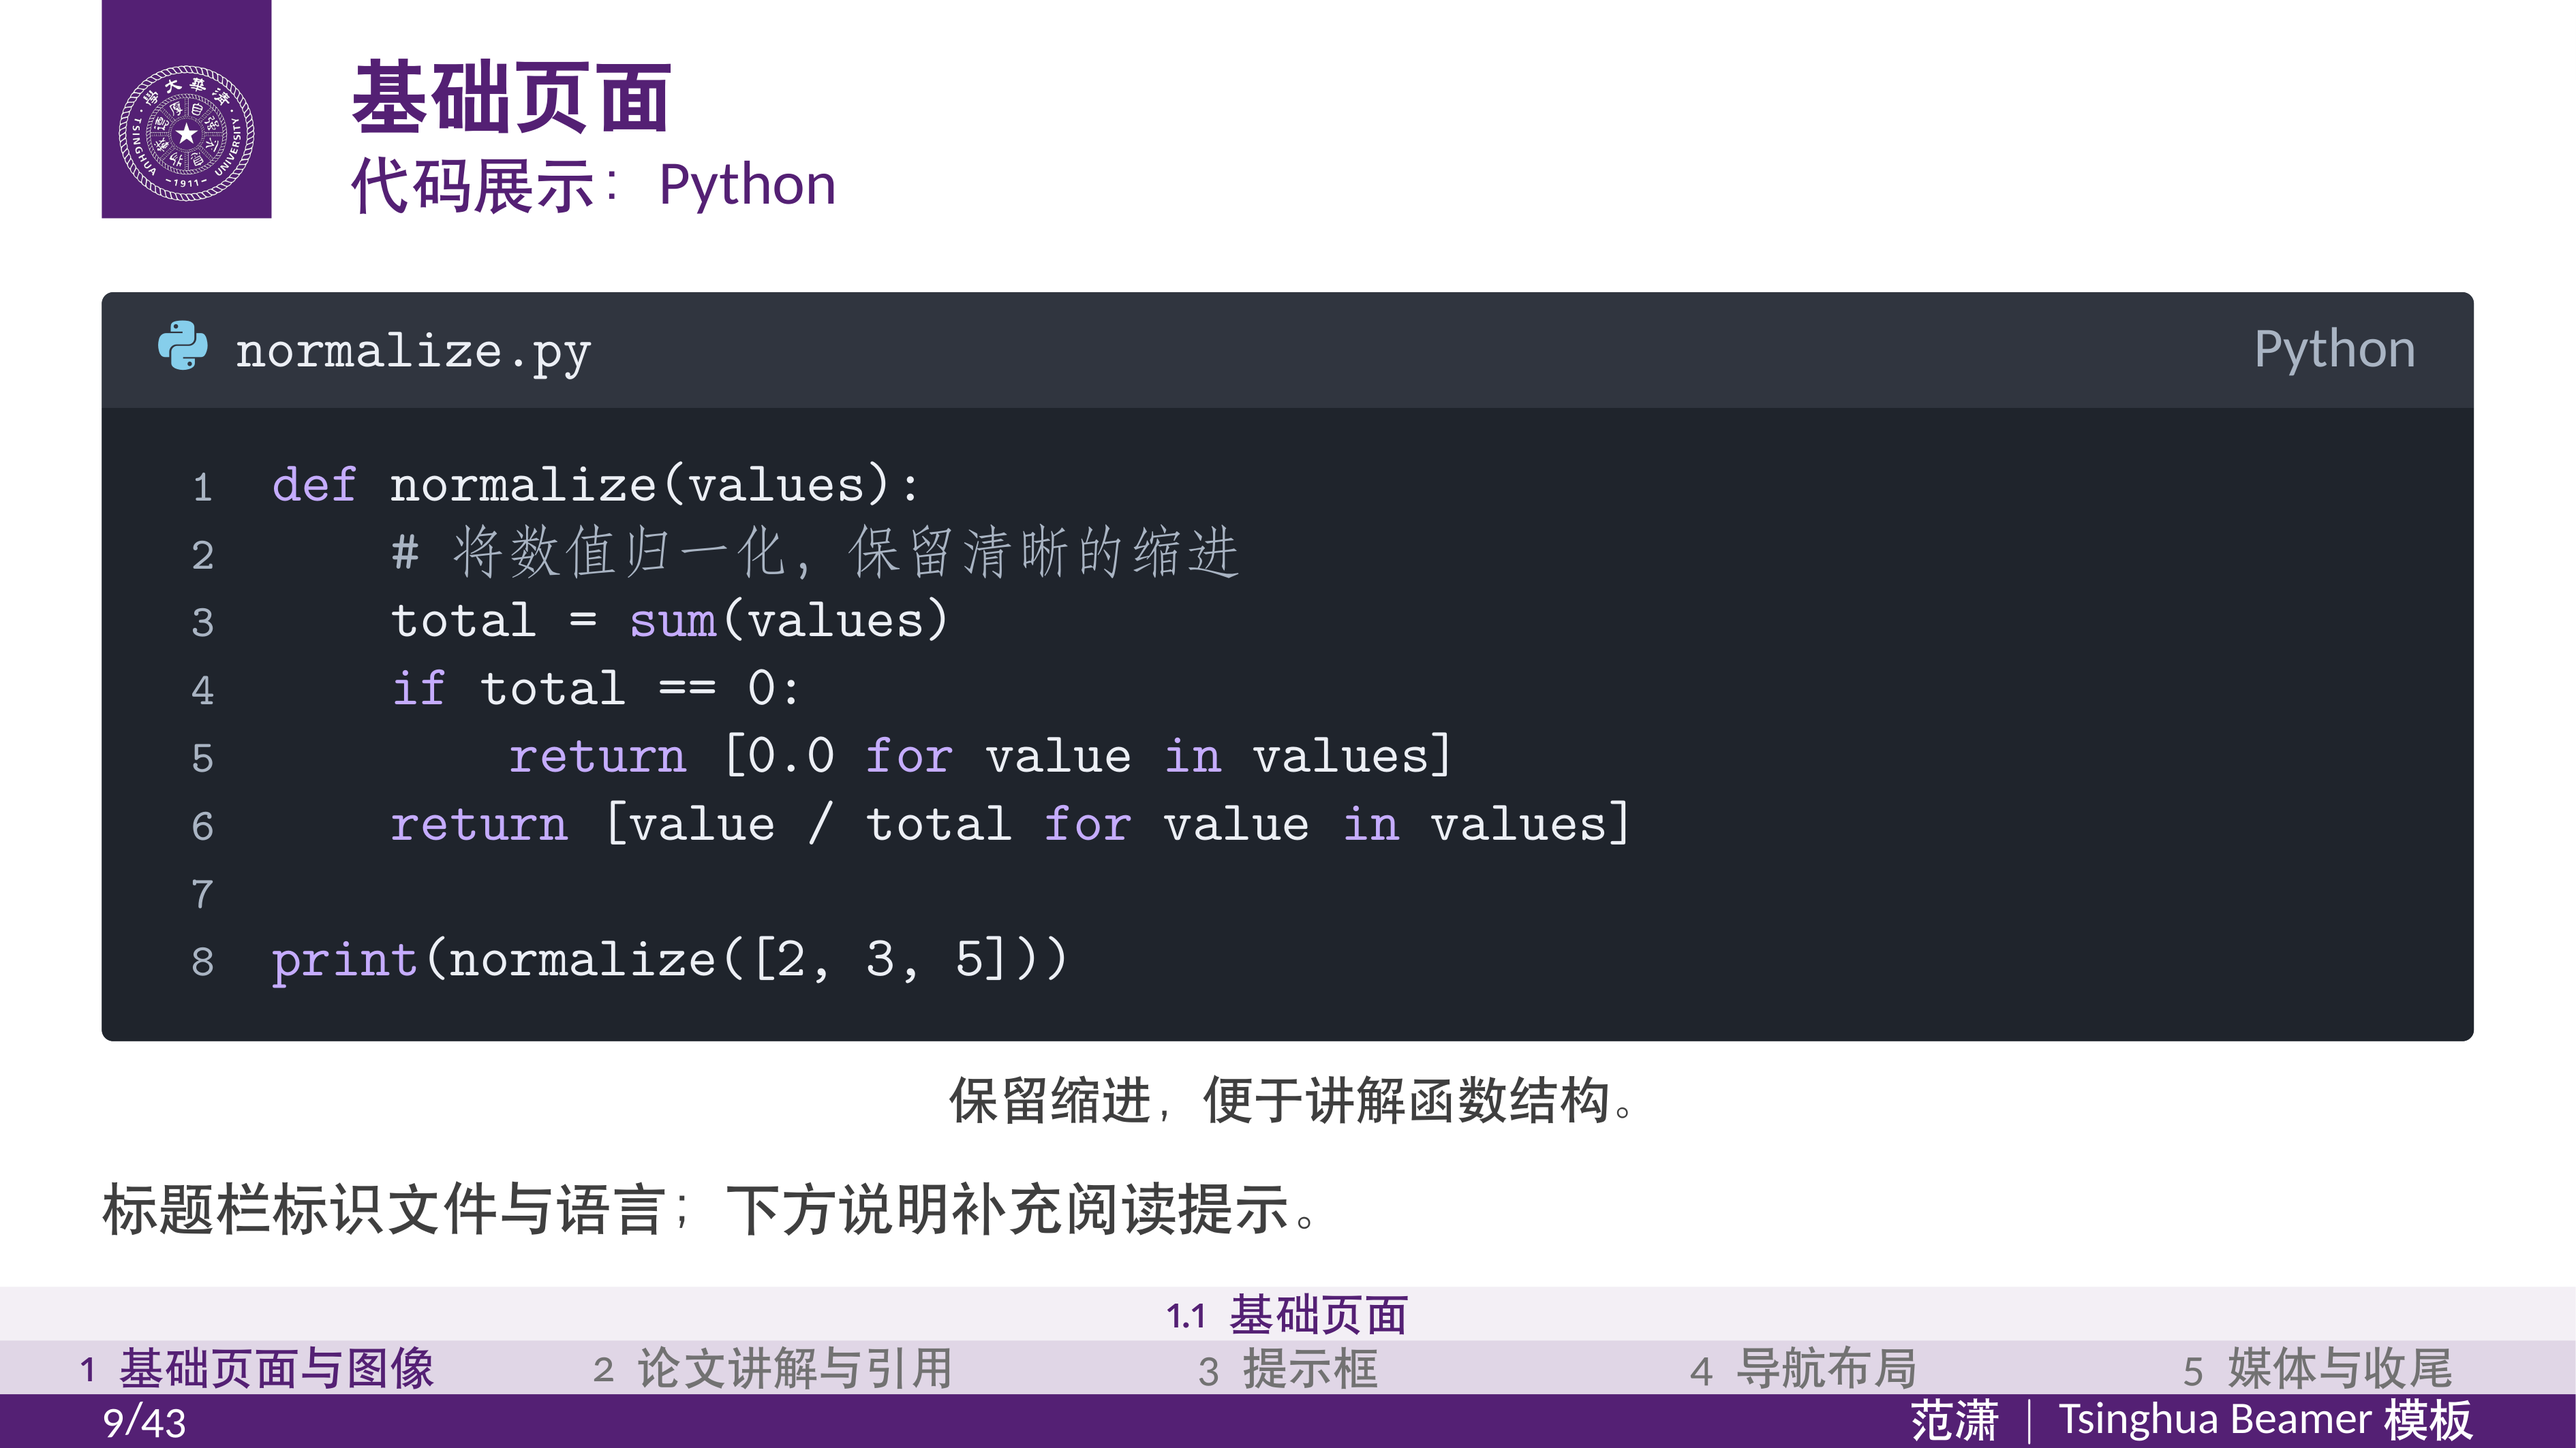
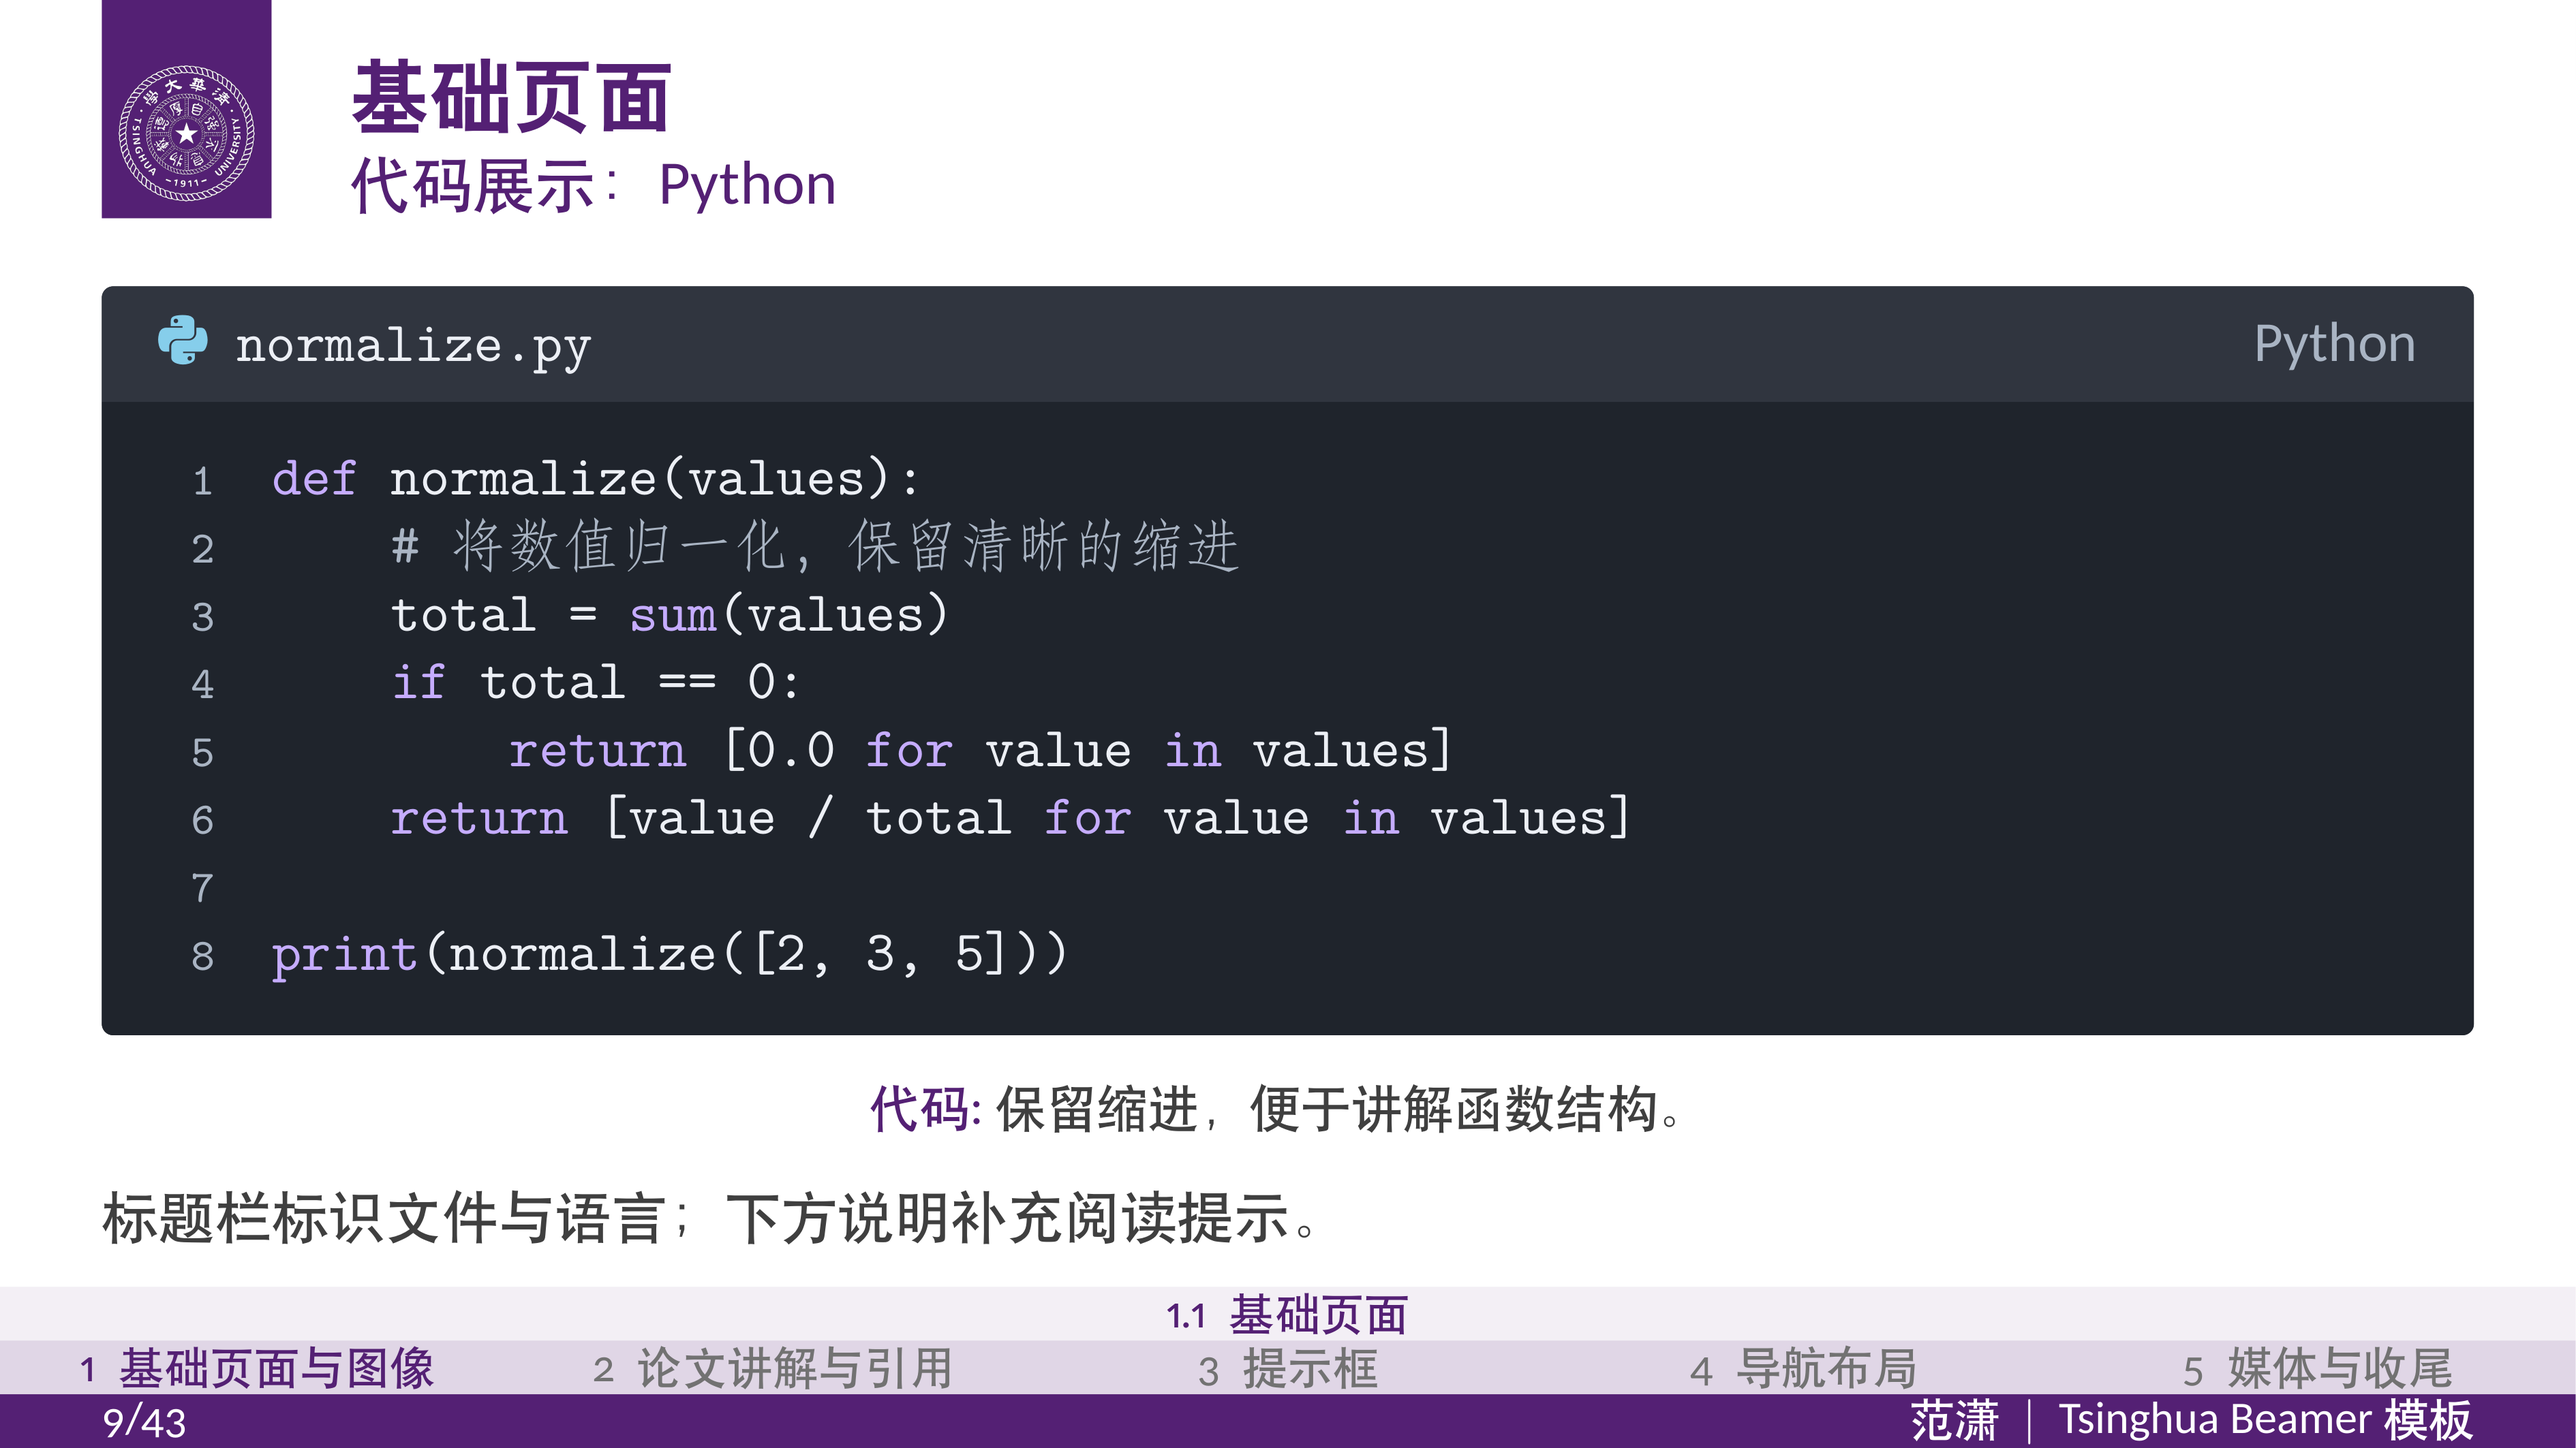
fix: unify code and video captions with figure styles

diff --git a/tools/check_theme.py b/tools/check_theme.py
@@ -30,7 +30,7 @@ EXPECTED_PAGES = {'brand-variants': 4, 'layout-guides': 5, 'layout-guides-off': 
                   'single-header': 5,
                   'demo-without-guides': 43, 'language-layout': 10,
                   'class-options': 6, 'class-handout': 1, 'class-mixed-language': 2,
-                  'code-windows': 5, 'class-metadata': 3, 'name-layout': 20,
+                  'code-windows': 6, 'class-metadata': 3, 'name-layout': 20,
                   'section-toc-spacing': 42, 'date-display': 12,
                   'citation-top-right': 3, 'flow-layout': 1, 'url-layout': 2,
                   'doc-citations': 7, 'description-alignment': 4, 'callout-layout': 1,
@@ -344,6 +344,27 @@ def check_url_layout(document, log):
             raise RuntimeError(f'url-layout: URL target changed: {url}')
 
 
+def caption_colors(page, text):
+    """Read the painted colors of a caption substring, including mixed fonts."""
+    rectangles = page.search_for(text)
+    colors = {span['color']
+              for block in page.get_text('rawdict')['blocks'] if block['type'] == 0
+              for line in block['lines'] for span in line['spans']
+              for char in span['chars']
+              if any((pymupdf.Rect(char['bbox']).tl +
+                      pymupdf.Rect(char['bbox']).br) / 2 in rect for rect in rectangles)}
+    if not colors:
+        raise RuntimeError(f'missing caption text: {text}')
+    return colors
+
+
+def check_caption_style(page, label, body, label_color, body_color):
+    if caption_colors(page, label) != {label_color}:
+        raise RuntimeError(f'caption label color differs from figures: {label}')
+    if caption_colors(page, body) != {body_color}:
+        raise RuntimeError(f'caption body color differs from figures: {body}')
+
+
 def check_class_fixture(name, document, log):
     if 'biblatex.sty' not in log:
         raise RuntimeError(f'{name}: automatic bibliography support did not load')
@@ -360,7 +381,27 @@ def check_class_fixture(name, document, log):
     if name.startswith('class-') and 'Missing character:' in log:
         raise RuntimeError(f'{name}: missing glyphs in class-generated content')
     text = '\n'.join(page.get_text() for page in document)
+    if name == 'demo-without-guides':
+        reference = next(page for page in document if page.search_for('图:'))
+        label_color, = caption_colors(reference, '图:')
+        reference = next(page for page in document
+                         if page.search_for('横向标志素材的适配效果'))
+        body_color, = caption_colors(reference, '横向标志素材的适配效果')
+        for page in document:
+            if page.search_for('保留缩进，便于讲解函数结构。'):
+                check_caption_style(page, '代码:', '保留缩进，便于讲解函数结构。',
+                                    label_color, body_color)
+            if page.search_for('原创动画：大纲'):
+                check_caption_style(page, '视频:', '原创动画：大纲', label_color, body_color)
     if name == 'code-windows':
+        label_color, = caption_colors(document[5], 'Figure:')
+        body_color, = caption_colors(document[5], 'Figure caption body.')
+        for label, body in (('Figure:', 'Figure caption body.'),
+                            ('Table:', 'Table caption body.'),
+                            ('Video:', 'Video caption body.')):
+            check_caption_style(document[5], label, body, label_color, body_color)
+        if len(document[5].search_for('Video:')) != 1:
+            raise RuntimeError('code-windows: empty video caption left a label')
         for warning in ('Missing character:', 'Overfull'):
             if warning in log:
                 raise RuntimeError(f'{name}: {warning} in code fixture')
@@ -399,6 +440,7 @@ def check_class_fixture(name, document, log):
                            for rect in page.search_for(marker)):
                     raise RuntimeError(f'{name}: {filename}: {marker} is not above code')
             if caption:
+                check_caption_style(page, 'Code:', caption, label_color, body_color)
                 rects = page.search_for(caption)
                 # Mixed CJK/Latin fonts can yield multiple rectangles for one caption.
                 occurrences = ''.join(page.get_text().split()).count(''.join(caption.split()))

diff --git a/tools/tests/test_theme_inspection.py b/tools/tests/test_theme_inspection.py
@@ -8,7 +8,8 @@ from pathlib import Path
 import pymupdf
 
 sys.path.insert(0, str(Path(__file__).resolve().parents[1]))
-from check_theme import check_caption_below, check_description_rows, check_doc_citations
+from check_theme import (check_caption_below, check_caption_style,
+                         check_description_rows, check_doc_citations)
 
 
 class ThemeInspectionTests(unittest.TestCase):
@@ -44,6 +45,26 @@ class ThemeInspectionTests(unittest.TestCase):
         page = self.page()
         page.insert_text((100, 160), 'Diagram caption', fontsize=9)
         check_caption_below(page, 'Diagram caption', 130, footer_top=215)
+
+    def test_caption_has_colored_label_and_normal_body(self):
+        page = self.page()
+        page.insert_text((40, 100), 'Code:', color=(85/255, 33/255, 116/255))
+        page.insert_text((85, 100), 'Example description')
+        check_caption_style(page, 'Code:', 'Example description', 0x552174, 0)
+
+    def test_uncolored_caption_label_is_rejected(self):
+        page = self.page()
+        page.insert_text((40, 100), 'Code:')
+        page.insert_text((85, 100), 'Example description')
+        with self.assertRaisesRegex(RuntimeError, 'label color'):
+            check_caption_style(page, 'Code:', 'Example description', 0x552174, 0)
+
+    def test_colored_caption_body_is_rejected(self):
+        page = self.page()
+        page.insert_text((40, 100), 'Video:', color=(85/255, 33/255, 116/255))
+        page.insert_text((85, 100), 'Example description', color=(85/255, 33/255, 116/255))
+        with self.assertRaisesRegex(RuntimeError, 'body'):
+            check_caption_style(page, 'Video:', 'Example description', 0x552174, 0)
 
     def test_missing_caption_is_rejected(self):
         with self.assertRaisesRegex(RuntimeError, 'missing figure caption'):

diff --git a/sections/05_media.tex b/sections/05_media.tex
@@ -10,8 +10,7 @@
       \href{run:../assets/presentation_demo.mp4}{% 原创 CC0 动画；路径相对于 build/ 中的 PDF
             \XeTeXLinkBox{\parbox[c][.60\textheight][c]{\dimexpr .60\textheight*16/9\relax}{\mbox{}}}%
       }
-      \par\medskip
-      {\small 原创动画：大纲 \(\rightarrow\) 幻灯片 \(\rightarrow\) 备注（6 秒，无音轨，CC0）。}
+      \campusvideocaption{原创动画：大纲 \(\rightarrow\) 幻灯片 \(\rightarrow\) 备注（6 秒，无音轨，CC0）。}
 \end{frame}
 \note{本页的原创几何动画展示大纲如何对应幻灯片及逐页备注，采用 CC0-1.0，无外部画面或音轨。PDF 中点击会打开本地视频；PPTX 内嵌视频和首帧预览，点击视频播放。}
 

diff --git a/tools/fixtures/code-windows.tex b/tools/fixtures/code-windows.tex
@@ -48,4 +48,17 @@ Host lab
     RemoteForward 9000 localhost:9000
 \end{campuscode}
 \end{frame}
+\begin{frame}{Caption styles}
+\begin{figure}
+\rule{20pt}{8pt}
+\caption{Figure caption body.}
+\end{figure}
+\begin{table}
+\begin{tabular}{cc}A & B\end{tabular}
+\caption{Table caption body.}
+\end{table}
+\centering\rule{20pt}{8pt}
+\campusvideocaption{Video caption body.}
+\campusvideocaption{}
+\end{frame}
 \end{document}

diff --git a/docs/agent-authoring.md b/docs/agent-authoring.md
@@ -242,7 +242,10 @@ For paper walkthroughs, use `paperframe`; for a full-height right image, use
 
 For code, keep the content type, file/path, and language marker in the code
 window's upper bar. Put a shared explanation below the window with
-`caption={...}` or its `description={...}` alias. Use `Terminal` for command
+`caption={...}` or its `description={...}` alias. Code captions use a localized,
+theme-colored label and normal caption body text, matching figures and tables.
+Use `\campusvideocaption{...}` for the same caption style below video links.
+Use `Terminal` for command
 transcripts; use a file/config icon and a label such as `Config` for SSH or
 other configuration files; use the source-file name for program code. Keep
 `language` for highlighting and `label`/`icon` for the visible category.

diff --git a/docs/agent-validation.md b/docs/agent-validation.md
@@ -89,6 +89,11 @@ body/footer. Exempt logos, decorative backgrounds and theme overlay TikZ.
 Source scanning is a supporting check, not a general detector for uncaptained
 content figures.
 
+Code and video captions use the localized theme-colored label followed by
+normal caption text, matching figures and tables. Check both `caption` and
+`description` code options, `\campusvideocaption`, and empty captions; do not
+color the entire description or leave a label when the caption is absent.
+
 Web sources use the standard gray top-right citation style. Verify both the
 source name and actual URL are visible and clickable, including fragments and
 query parameters. For the long-address fallback, match the corner label to the
